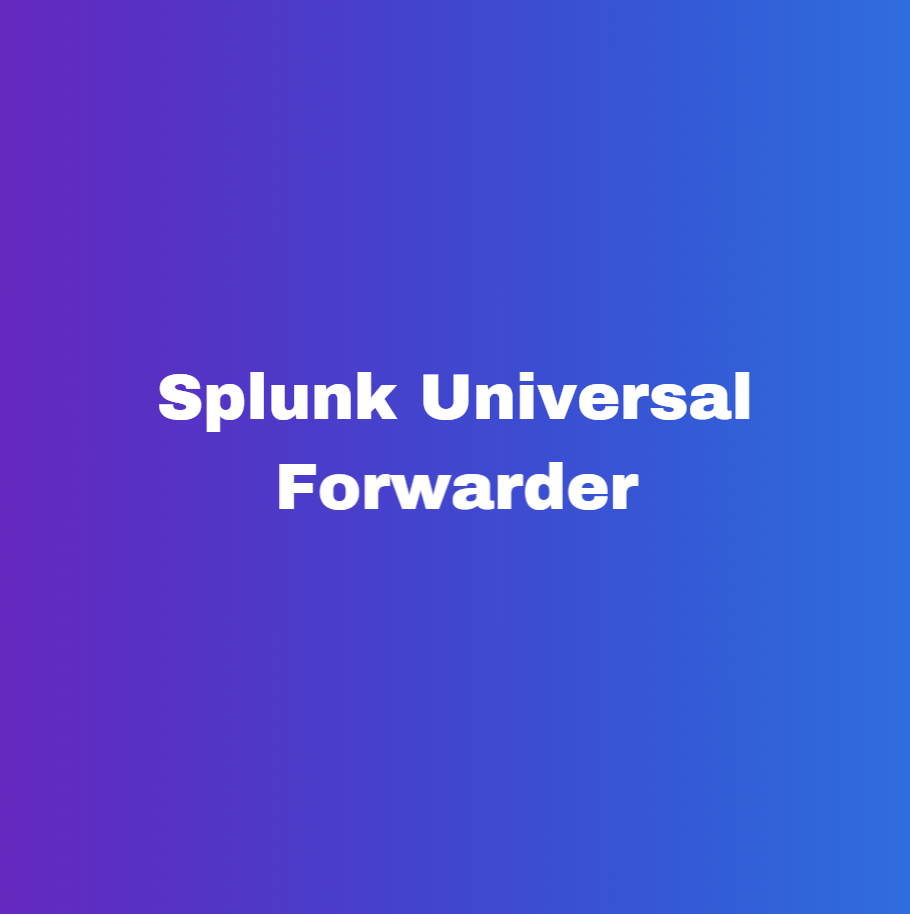
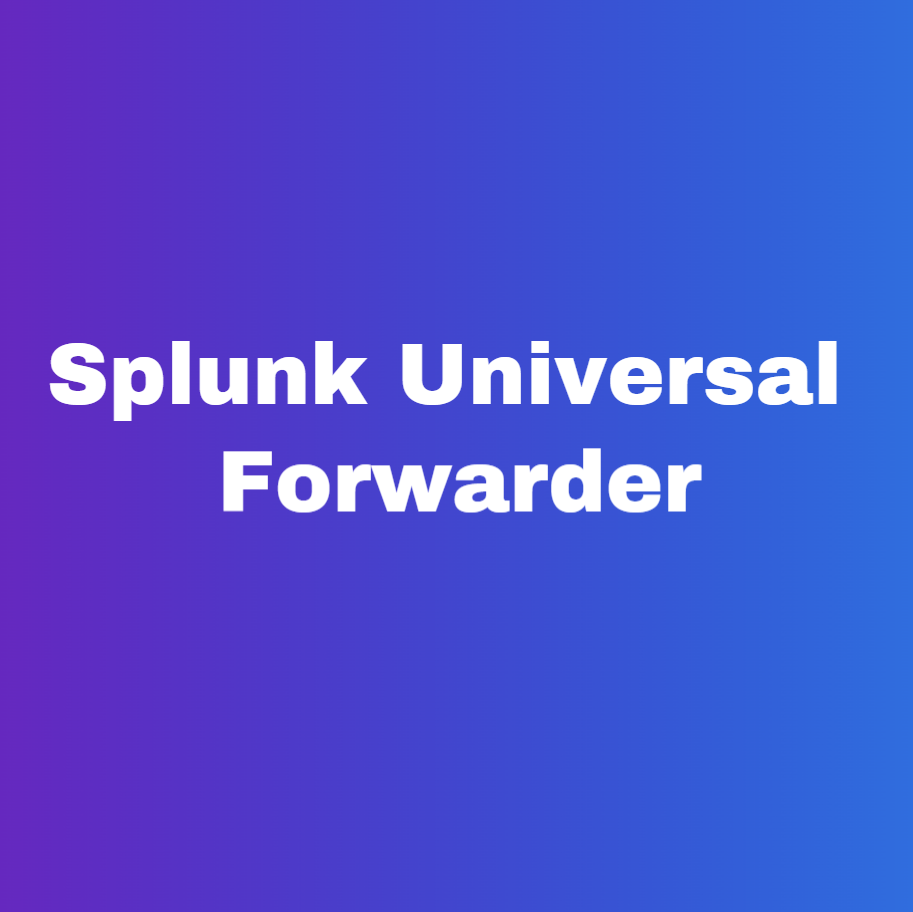
initial commit

Changed region(s): [[0.0308, 0.3684, 0.9231, 0.4912], [0.2462, 0.4912, 0.7692, 0.5833]]

diff --git a/_posts/Tutorials/SIEM_Tutorial/2024-09-29-SIEM_Tutorial_Part_3.md b/_posts/Tutorials/SIEM_Tutorial/2024-09-29-SIEM_Tutorial_Part_3.md
@@ -2,7 +2,7 @@
 title: "SIEM Tutorial - Part 3"
 classes: wide
 header:
-  teaser: /assets/images/tutorials/SIEM_Tutorial/Part_3/Splunk_Forwarder_2.png
+  teaser: /assets/images/tutorials/SIEM_Tutorial/Part_3/Splunk_Forwarder_3.png
 ribbon: red
 description: "Hello, in part 2, we covered what Splunk is, its components, explored its interface, and solve a small piece of the `botsv3` dataset. Today, we are going to dive into another functionality in Splunk."
 categories:
@@ -10,7 +10,7 @@ categories:
 toc: false
 ---
 
-<img src="/assets/images/tutorials/SIEM_Tutorial/Part_3/Splunk_Forwarder.png" alt="SIEM" style="zoom: 67%;" />
+<img src="/assets/images/tutorials/SIEM_Tutorial/Part_3/Splunk_Forwarder_3.png" alt="SIEM" style="zoom: 67%;" />
 
 # SIEM Solutions - Part 3
 
